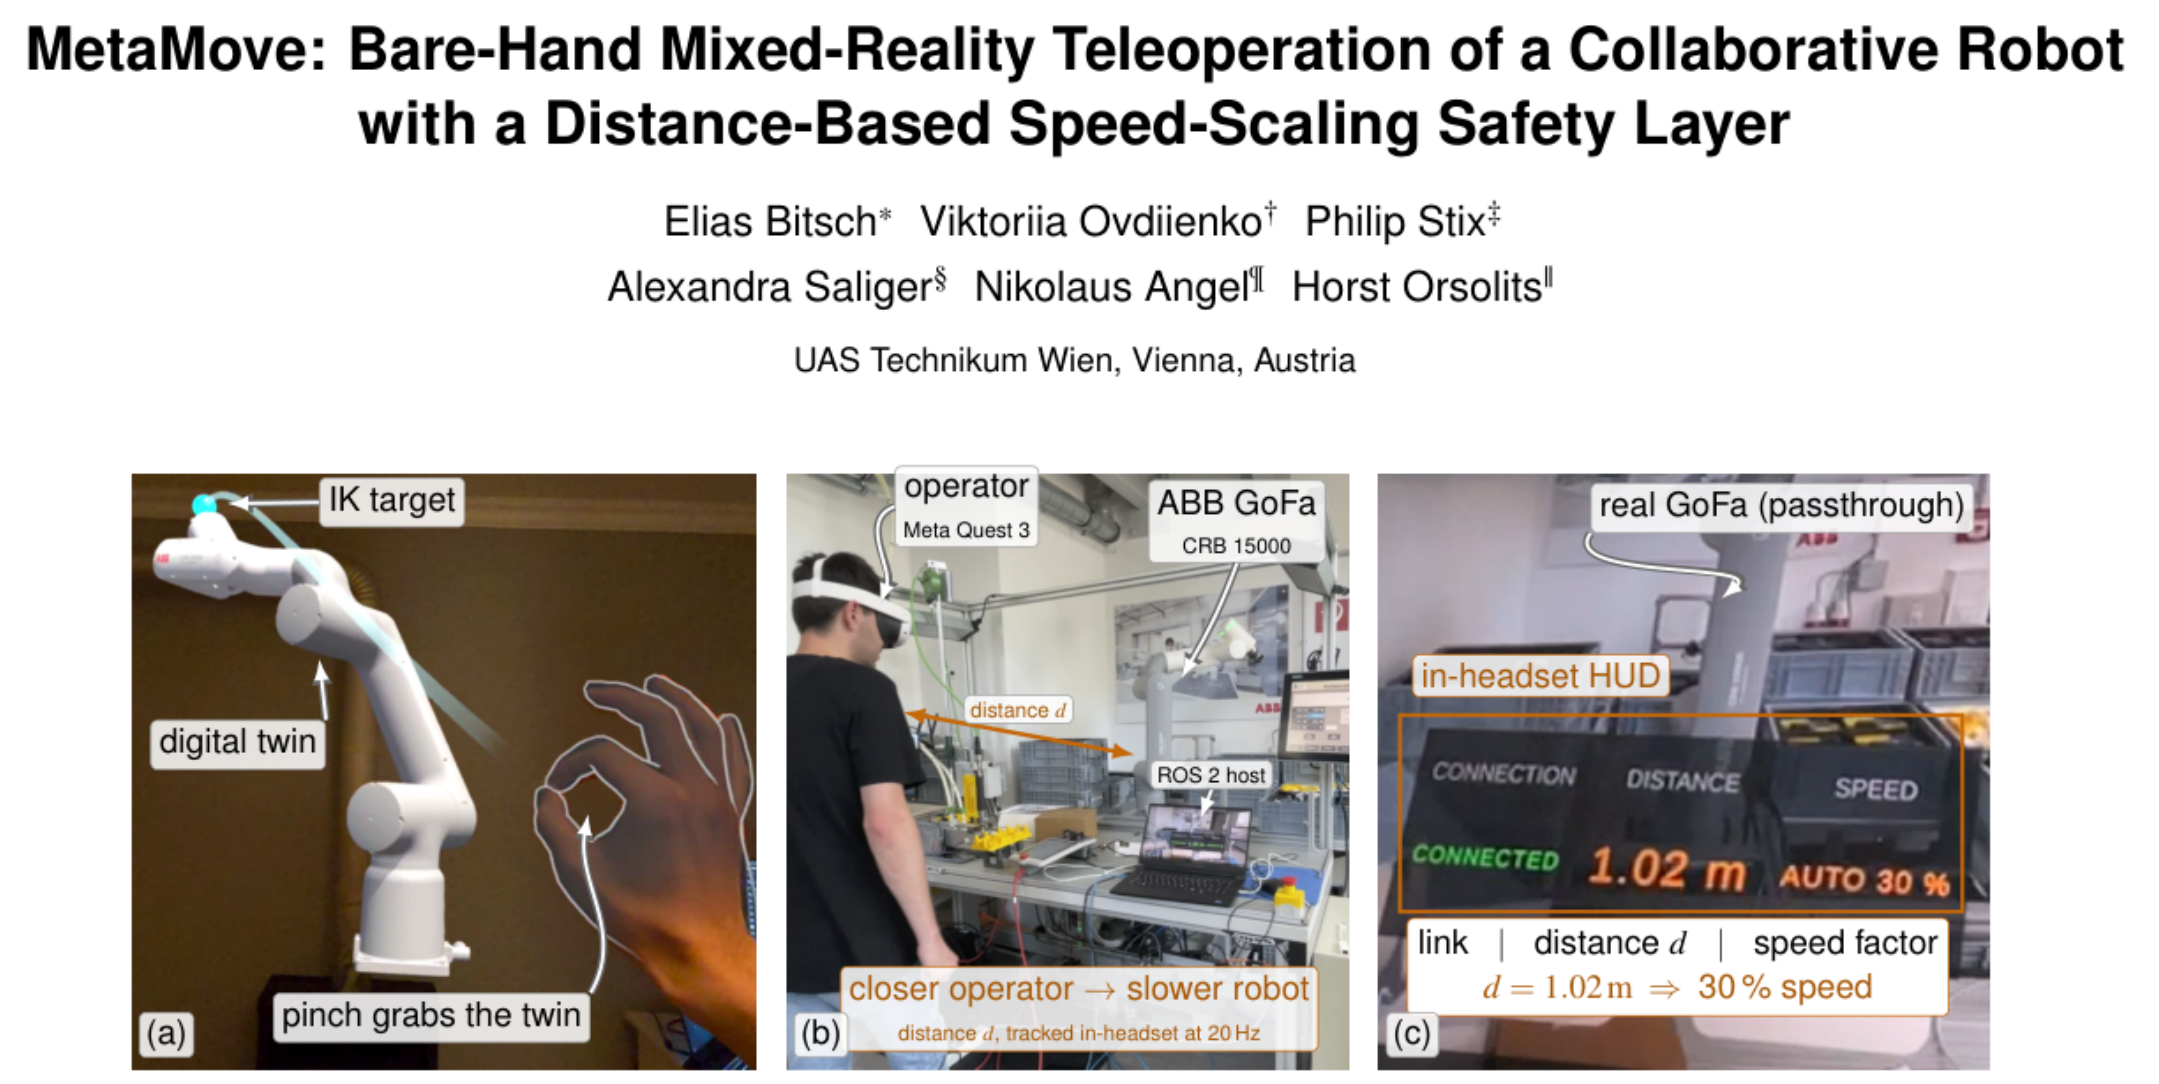
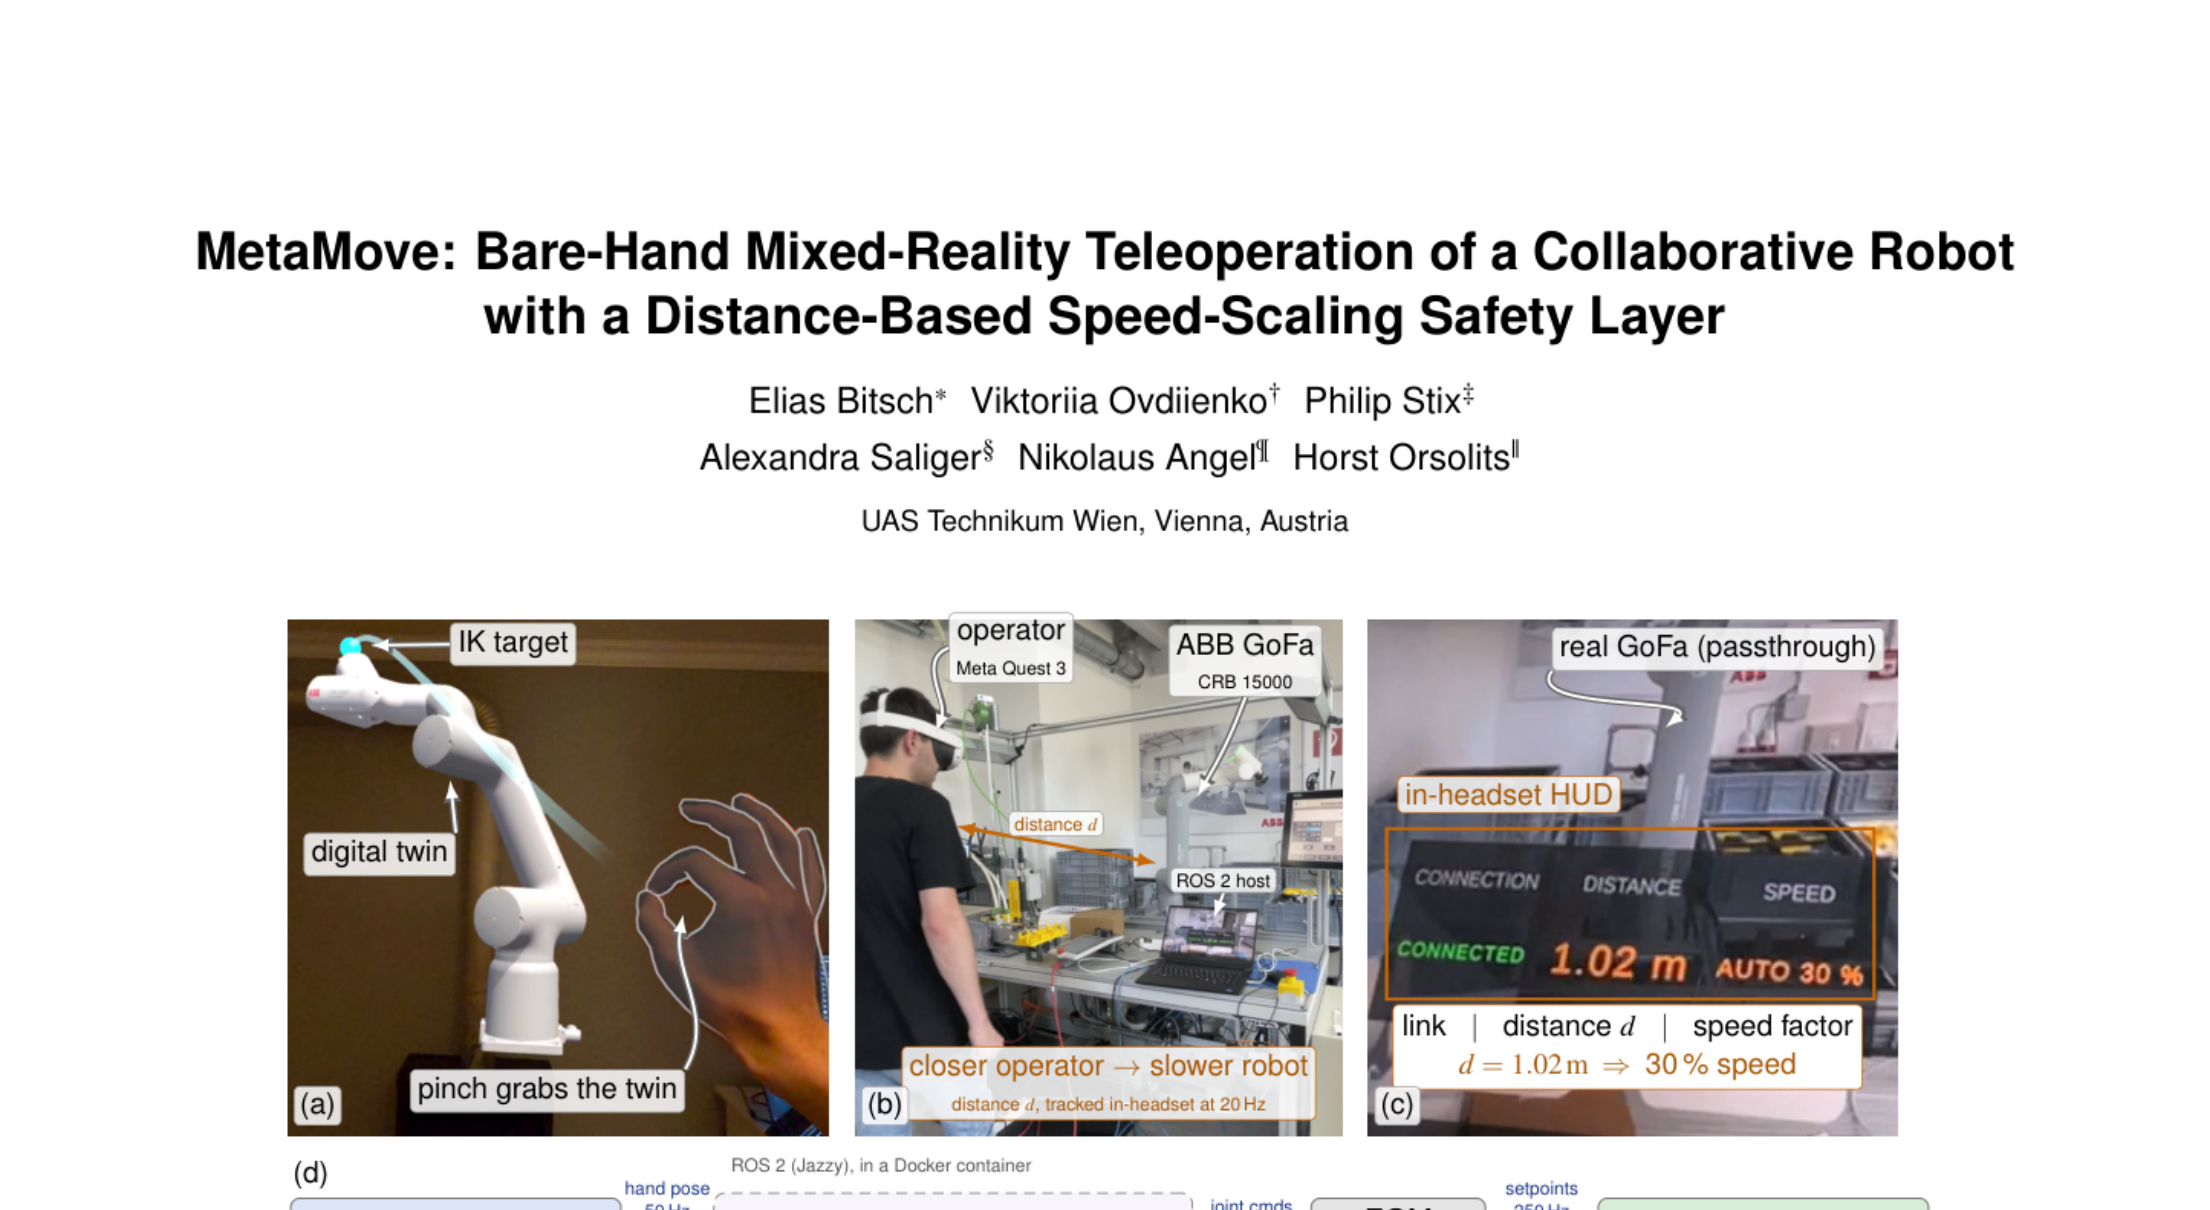
Merge the three ROS robot entries, show the paper page as a page
Path Planning Robot, Maze solving Robot and Line follower Robot were the
same robot described three times, sharing a repository between two of the
cards. They are now one entry, "Maze solving Robot & Line follower", with
the video and both repositories.

The MetaMove image was a tight crop around title and figure. It now shows
the top of the page with its margins, so it reads as a page rather than as
a cut-out.

diff --git a/src/app/projects/page.tsx b/src/app/projects/page.tsx
@@ -126,38 +126,27 @@ const projectsData: Project[] = [
   },
   {
     id: 6,
-    category: ['Robotics'],
-    title: 'Path Planning Robot',
-    description: 'A Robot that can solve a maze using ROS and its navigation stack.',
+    category: ['Robotics', 'Computer Vision'],
+    title: 'Maze solving Robot & Line follower',
+    description:
+      'Two ROS behaviours on the same robot: following a line from the camera image with OpenCV, and finding its way through a maze with the ROS navigation stack, an A-Star planner and a k-nearest neighbour classifier. Packaged in Docker.',
     imageUrl: '/images/path-planning.png',
-    tags: ['ROS', 'Navigation Stack', 'Path Planning'],
+    tags: ['ROS', 'Python', 'OpenCV', 'Path Planning', 'Docker'],
     icon: FaPalette,
-    links: [{ label: 'Repository', href: 'https://github.com/eliasbitsch/Docker-ROS-line-follower-path-planner' }]
+    links: [
+      { label: 'Video', href: 'https://youtu.be/5yGivDq1IQU' },
+      {
+        label: 'Line follower repo',
+        href: 'https://github.com/eliasbitsch/Docker-ROS-line-follower-path-planner',
+      },
+      {
+        label: 'Maze solver repo',
+        href: 'https://github.com/eliasbitsch/Docker-ROS-maze-solver',
+      },
+    ]
   },
   {
     id: 7,
-    category: ['Robotics'],
-    title: 'Maze solving Robot',
-    description: 'A Robot that can solve a maze using k-nearest neighbor classifier and A-Star algorithm.',
-    imageUrl: '/images/maze-solver.png',
-    tags: ['ROS', 'Python', 'Machine Learning'],
-    icon: FaMicrochip,
-    links: [{ label: 'Repository', href: 'https://github.com/eliasbitsch/Docker-ROS-maze-solver' }]
-
-  },
-  {
-    id: 8,
-    category: ['Robotics', 'Computer Vision'],
-    title: 'Line follower Robot',
-    description: 'A Robot that can follow a line using a camera with OpenCV Library.',
-    imageUrl: '/images/line-follower.png',
-    tags: ['ROS', 'Python', 'OpenCV'],
-    icon: FaLaptopCode,
-    links: [{ label: 'Repository', href: 'https://github.com/eliasbitsch/Docker-ROS-line-follower-path-planner' }]
-
-  },
-  {
-    id: 9,
     category: ['Web & Software'],
     title: 'ROS online course',
     description: 'An online course about ROS.',
@@ -169,7 +158,7 @@ const projectsData: Project[] = [
   },
 
   {
-    id: 10,
+    id: 8,
     category: ['Web & Software'],
     title: 'Portfolio Website',
     description: 'A personal portfolio website built with Next.js, Typescript and Chakra UI.',
